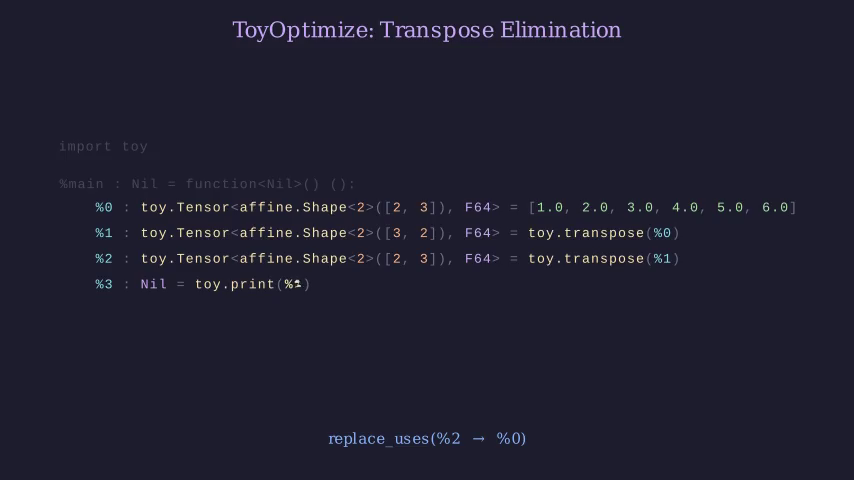
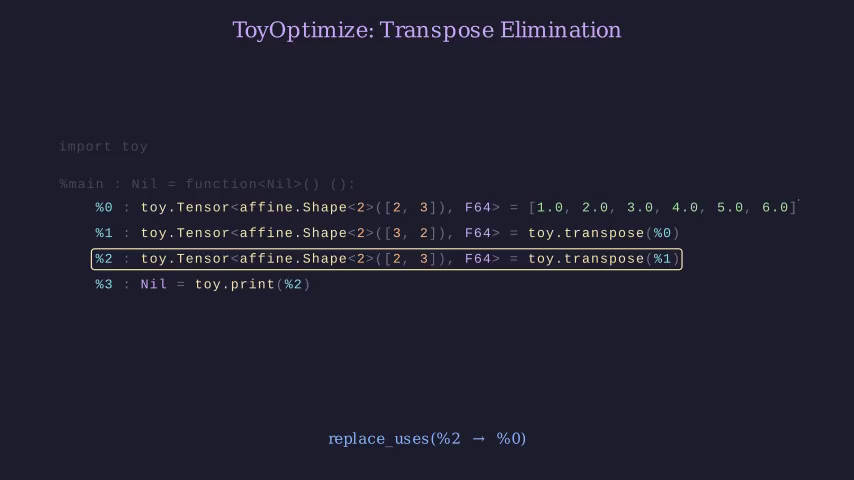
Box-based replace_uses visualization: def line + operand token
Animation steps:
- Draw orange box around %old_name definition (whole line) and a tight
  per-token box around each %old_name operand occurrence (using MarkupText
  .chars submobject slicing on mob.text which strips spaces)
- Draw cyan box around %new_name definition
- Morph consumer text (%old → %new) while operand box color shifts orange→cyan
- Fade all SSA boxes; create red dead boxes; slide survivors up

The per-token operand box uses mob.text (space-stripped) for index lookup
and mob.chars.submobjects[idx:idx+n] for the glyph VGroup.

Changed region(s): [[0.0913, 0.5, 0.7916, 0.625]]

diff --git a/toy/viz/lowering_scene.py b/toy/viz/lowering_scene.py
@@ -321,10 +321,10 @@ class TransposeEliminationScene(Scene):
         """
         Animate replace_uses(old → new) entirely in the IR view.
 
-          A. Flash %old_name in consumer operands (orange).
-          B. Morph %old_name → %new_name in those operands (green).
-          C. Red boxes on now-dead ops.
-          D. Dead ops fade out; survivors slide up to fill the gap.
+          A. Draw boxes around all %old_name occurrences (def line + operand tokens).
+          B. Draw a differently-colored box around the %new_name definition.
+          C. Morph consumer text (%old → %new) and operand box color (orange → cyan).
+          D. Fade all SSA boxes; red boxes on dead ops; slide survivors up.
         """
         # ── Parse ─────────────────────────────────────────────────────────────
         before_uses = _parse_uses(before_lines)
@@ -334,7 +334,6 @@ class TransposeEliminationScene(Scene):
         after_name_set = set(after_order)
         dead_order = [n for n in before_order if n not in after_name_set]
 
-        before_line_map = {n: ln for ln in before_lines if (n := _op_name_from_line(ln))}
         after_line_map = {n: ln for ln in after_lines if (n := _op_name_from_line(ln))}
 
         # Surviving ops that used old_name as an operand
@@ -352,39 +351,77 @@ class TransposeEliminationScene(Scene):
         new_name = new_name_candidates[0] if new_name_candidates else after_refs[0]
 
         ORANGE = "#f9e2af"
-        GREEN = "#a6e3a1"
+        CYAN = "#89dceb"
 
-        # ── Step A: Flash old operand in orange ───────────────────────────────
-        hl_old: dict[str, MarkupText] = {}
+        def _line_box(name: str, color: str) -> SurroundingRectangle | None:
+            m = name_to_mob.get(name)
+            if m is None:
+                return None
+            return SurroundingRectangle(
+                m, color=color, buff=0.07, corner_radius=0.05, stroke_width=2
+            )
+
+        def _token_box(
+            mob: MarkupText, token: str, color: str
+        ) -> SurroundingRectangle | None:
+            # mob.text has spaces stripped; mob.chars has one submob per non-space char.
+            # Search after '=' so we find operand occurrences, not the definition.
+            clean = mob.text
+            eq_idx = clean.find("=")
+            search_from = eq_idx + 1 if eq_idx != -1 else 0
+            # token also has spaces stripped when searching
+            clean_token = token.replace(" ", "")
+            idx = clean.find(clean_token, search_from)
+            if idx == -1:
+                return None
+            glyph_list = mob.chars.submobjects[idx : idx + len(clean_token)]
+            if not glyph_list:
+                return None
+            return SurroundingRectangle(
+                VGroup(*glyph_list),
+                color=color,
+                buff=0.04,
+                corner_radius=0.04,
+                stroke_width=2,
+            )
+
+        # ── Step A: Draw boxes around all %old_name occurrences ───────────────
+        old_def_box = _line_box(old_name, ORANGE)
+        consumer_use_boxes: dict[str, SurroundingRectangle] = {}
         for cn in consumer_names:
-            mob = _ir_mob_hl_operand(before_line_map[cn], old_name, ORANGE)
-            mob.move_to(name_to_mob[cn])
-            hl_old[cn] = mob
+            box = _token_box(name_to_mob[cn], f"%{old_name}", ORANGE)
+            if box is not None:
+                consumer_use_boxes[cn] = box
 
         self.play(
-            *[Transform(name_to_mob[cn], hl_old[cn]) for cn in consumer_names],
+            *([Create(old_def_box)] if old_def_box else []),
+            *[Create(b) for b in consumer_use_boxes.values()],
             Transform(
                 status_mob,
                 _status(f"replace_uses(%{old_name}  →  %{new_name})", STATUS_INFO),
             ),
-            run_time=0.4,
-        )
-        self.wait(0.4)
-
-        # ── Step B: Morph to new operand, highlighted green ───────────────────
-        hl_new: dict[str, MarkupText] = {}
-        for cn in consumer_names:
-            mob = _ir_mob_hl_operand(after_line_map[cn], new_name, GREEN)
-            mob.move_to(name_to_mob[cn])
-            hl_new[cn] = mob
-
-        self.play(
-            *[Transform(name_to_mob[cn], hl_new[cn]) for cn in consumer_names],
             run_time=0.5,
         )
         self.wait(0.4)
 
-        # ── Step C: Red highlight boxes on now-dead ops ───────────────────────
+        # ── Step B: Draw box around %new_name definition ──────────────────────
+        new_def_box = _line_box(new_name, CYAN)
+        if new_def_box is not None:
+            self.play(Create(new_def_box), run_time=0.4)
+        self.wait(0.3)
+
+        # ── Step C: Morph consumer text + operand box orange → cyan ───────────
+        morph_anims: list = []
+        for cn in consumer_names:
+            final_mob = _ir_mob(after_line_map[cn])
+            final_mob.move_to(name_to_mob[cn])
+            morph_anims.append(Transform(name_to_mob[cn], final_mob))
+        for box in consumer_use_boxes.values():
+            morph_anims.append(Transform(box, box.copy().set_color(CYAN)))
+        self.play(*morph_anims, run_time=0.6)
+        self.wait(0.5)
+
+        # ── Step D: Fade SSA boxes → red dead boxes + slide survivors up ──────
         dead_mobs = [name_to_mob[n] for n in dead_order if n in name_to_mob]
         dead_rects = [
             SurroundingRectangle(
@@ -393,28 +430,29 @@ class TransposeEliminationScene(Scene):
             for m in dead_mobs
         ]
         self.play(
+            *([FadeOut(old_def_box)] if old_def_box else []),
+            *([FadeOut(new_def_box)] if new_def_box else []),
+            *[FadeOut(b) for b in consumer_use_boxes.values()],
             *[Create(r) for r in dead_rects],
             Transform(
                 status_mob,
                 _status(f"Eliminating  %{' + %'.join(dead_order)}", STATUS_DEAD),
             ),
-            run_time=0.45,
+            run_time=0.5,
         )
         self.wait(0.6)
 
-        # ── Step D: Build final layout, animate in-place ──────────────────────
         new_body, new_n2m = _build_ir_group(after_lines)
         new_body.align_to(body_group, UP + LEFT)
 
-        anims: list = [FadeOut(r) for r in dead_rects]
-        anims += [FadeOut(name_to_mob[n]) for n in dead_order if n in name_to_mob]
+        slide_anims: list = [FadeOut(r) for r in dead_rects]
+        slide_anims += [FadeOut(name_to_mob[n]) for n in dead_order if n in name_to_mob]
         for name in after_order:
             old_m = name_to_mob.get(name)
             new_m = new_n2m.get(name)
             if old_m is not None and new_m is not None:
-                anims.append(Transform(old_m, new_m))
-
-        self.play(*anims, run_time=0.8)
+                slide_anims.append(Transform(old_m, new_m))
+        self.play(*slide_anims, run_time=0.8)
         self.wait(0.5)
 
         # ── Return surviving mobs ─────────────────────────────────────────────
